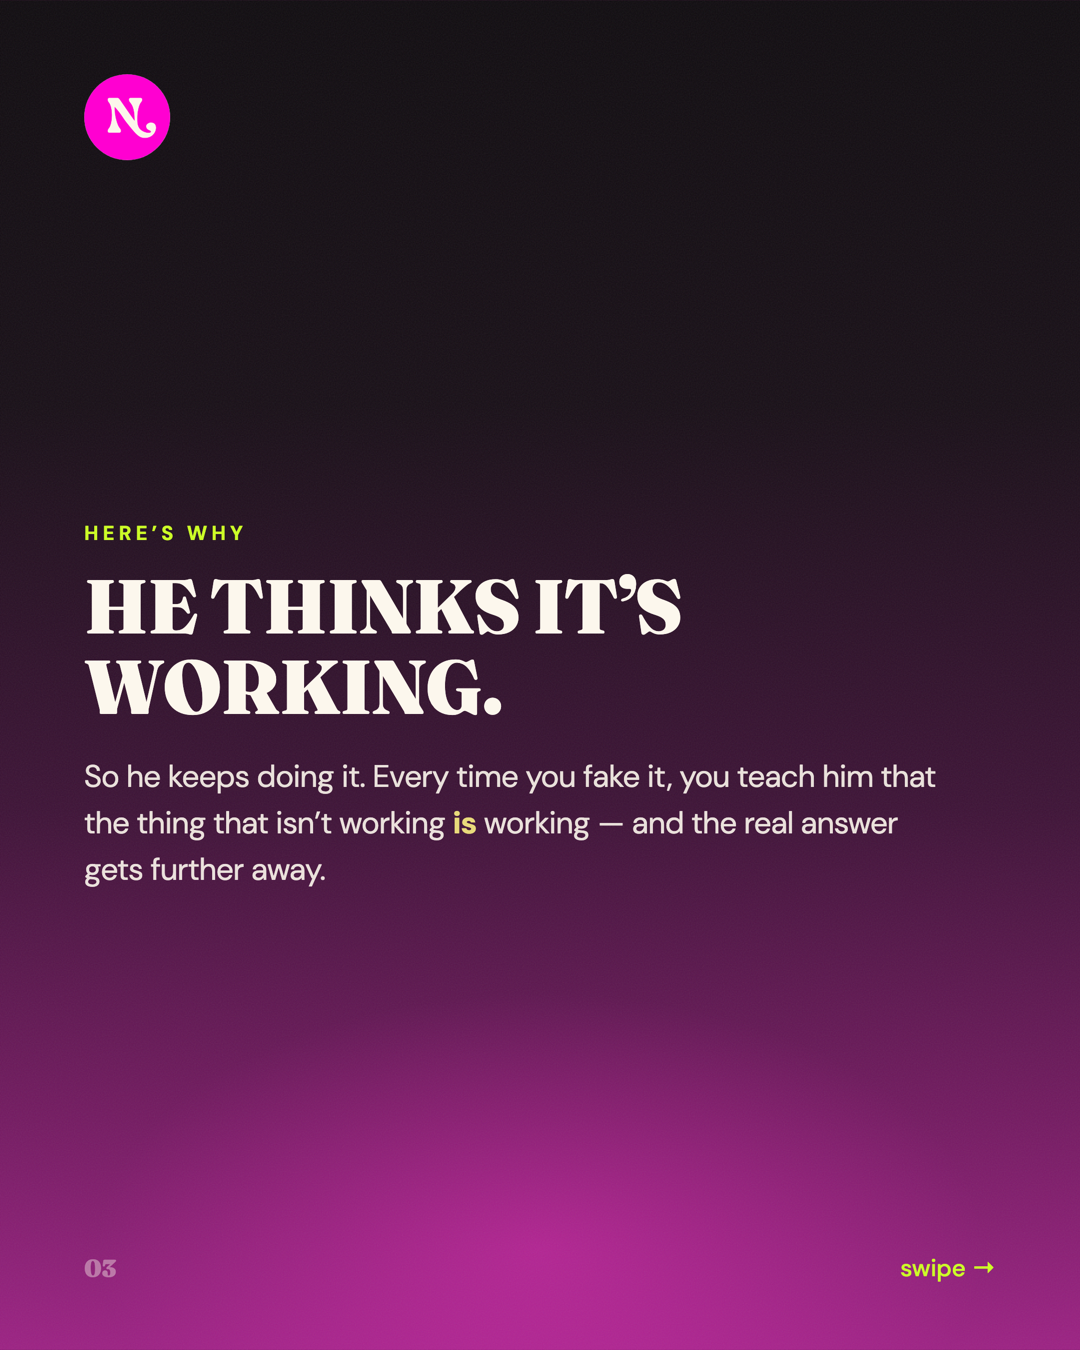
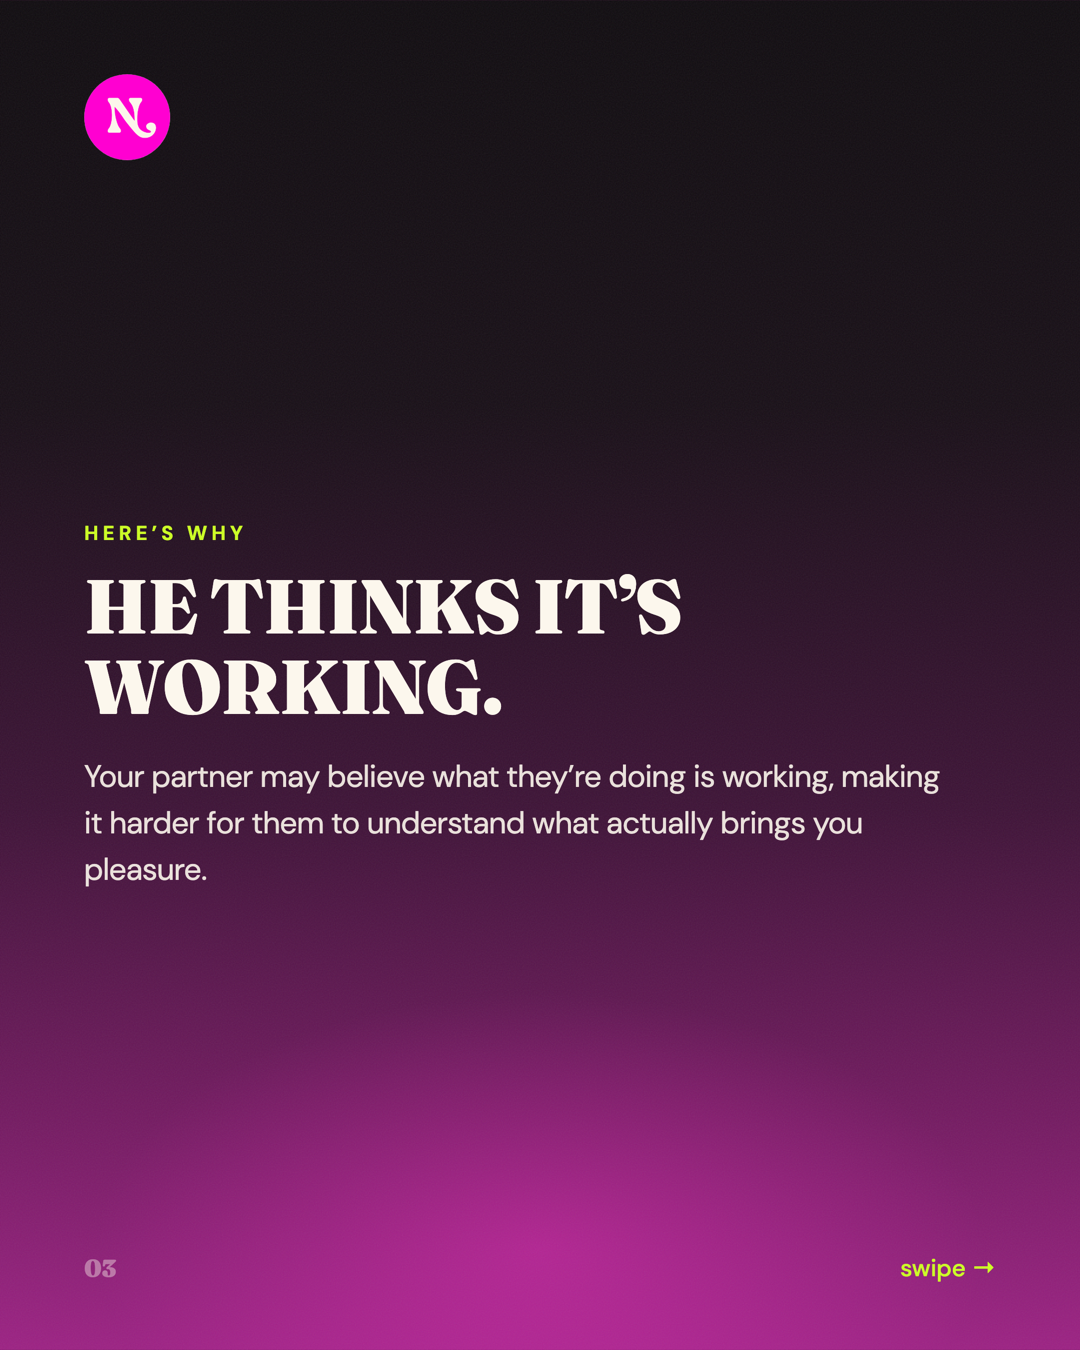
Post 4: restore original slide 3 body copy

Changed region(s): [[0.0611, 0.56, 0.8861, 0.6533]]

diff --git a/_source/post4-s3.html b/_source/post4-s3.html
@@ -37,7 +37,7 @@
   <div class="mid">
     <div class="kicker">here&rsquo;s why</div>
     <div class="head" style="font-size:76px">He thinks it&rsquo;s working.</div>
-    <div class="body">So he keeps doing it. Every time you fake it, you teach him that the thing that isn&rsquo;t working <b>is</b> working &mdash; and the real answer gets further away.</div>
+    <div class="body">Your partner may believe what they&rsquo;re doing is working, making it harder for them to understand what actually brings you pleasure.</div>
   </div>
   <div class="foot">
     <span class="num">03</span>

diff --git a/_source/post4-faking.py b/_source/post4-faking.py
@@ -66,7 +66,7 @@ S = [
     ("s3", slide("03", "here&rsquo;s why",
         "He thinks it&rsquo;s working.",
         76,
-        "So he keeps doing it. Every time you fake it, you teach him that the thing that isn&rsquo;t working <b>is</b> working &mdash; and the real answer gets further away.")),
+        "Your partner may believe what they&rsquo;re doing is working, making it harder for them to understand what actually brings you pleasure.")),
 
     ("s4", slide("04", "the trade",
         "Honesty beats performance.",
